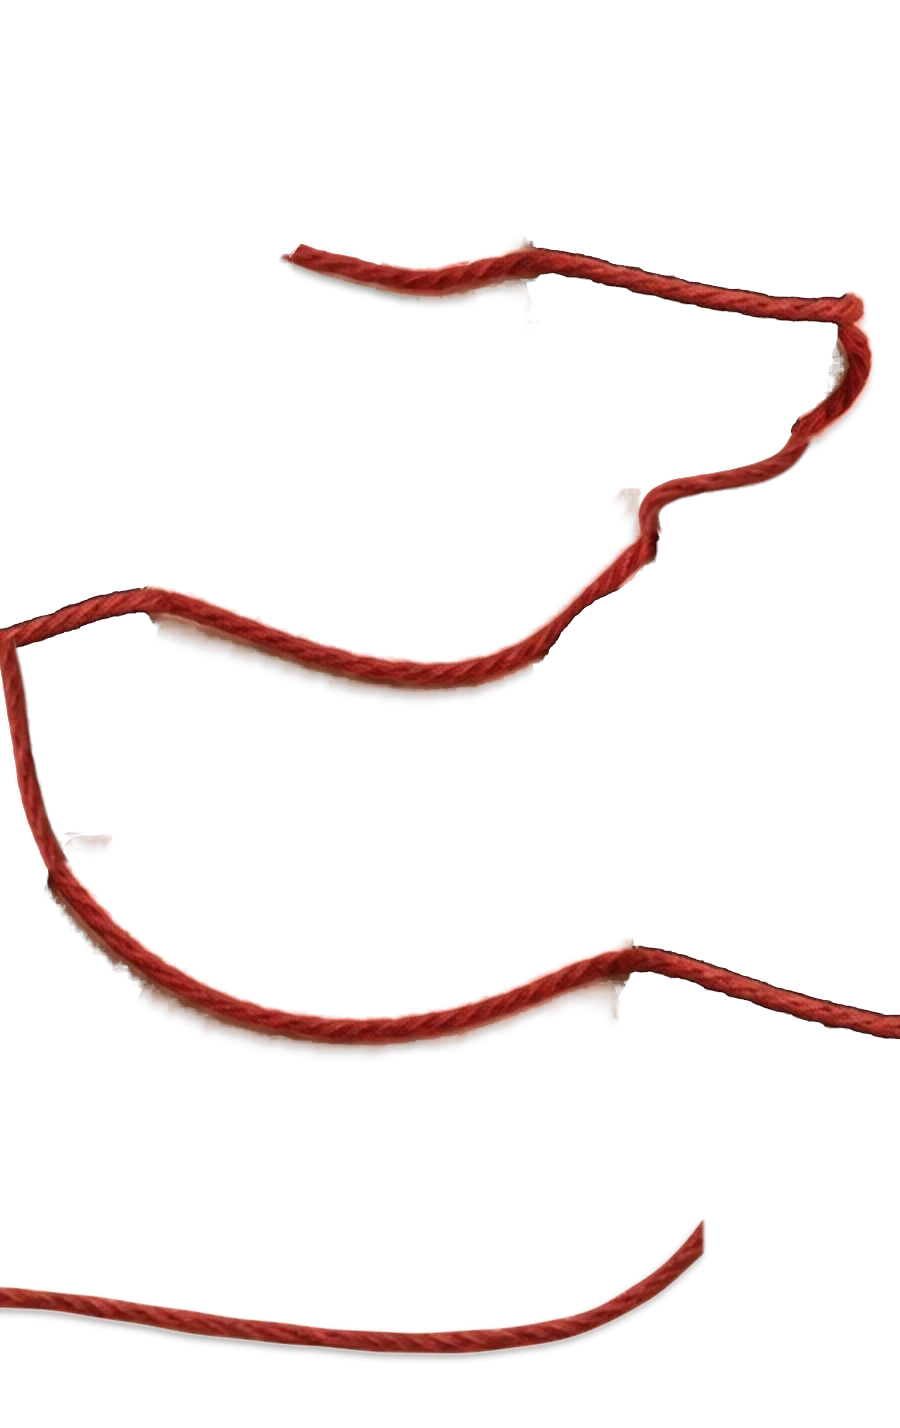
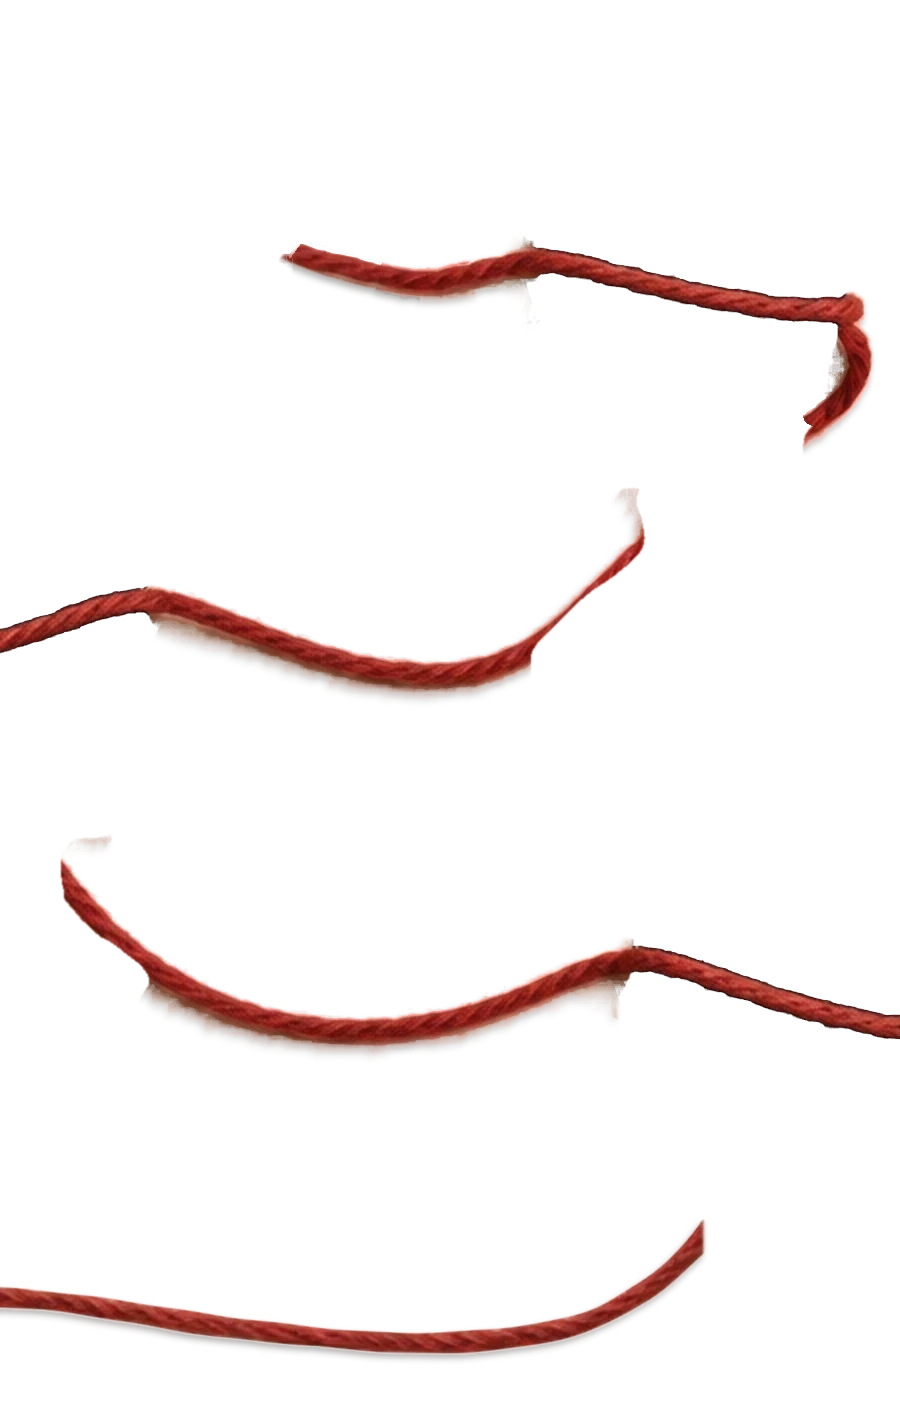
Matassa: il filo torna ad avvolgere i profili passando dietro; riesce da dietro il bordo del collo invece che dalla gola (#32)
Claude-Session: https://claude.ai/code/session_01K8S9kDcMmADtdHMs7poTsz

Changed region(s): [[0.5911, 0.2773, 0.9022, 0.4622], [0.0, 0.4314, 0.0933, 0.6471], [0.0933, 0.6471, 0.1867, 0.7087]]

diff --git a/assets/js/matassa.js b/assets/js/matassa.js
@@ -49,7 +49,7 @@
   function prepara() {
     var nome = verticale && verticale.matches ? 'stretto' : 'largo', T = TAGLI[nome];
     if (scena && scena.nome === nome) return;
-    Promise.all([carica(DIR + nome + '-base.webp?v=11'), carica(DIR + nome + '-filo.webp?v=11'), carica(DIR + nome + '-tempo.png?v=11'),
+    Promise.all([carica(DIR + nome + '-base.webp?v=12'), carica(DIR + nome + '-filo.webp?v=12'), carica(DIR + nome + '-tempo.png?v=12'),
                  carica(DIR + nome + '-palla.png?v=3')]).then(function (r) {
       var fp = pixel(r[1], T.W, T.H), tp = pixel(r[2], T.W, T.H);
       cBase.width = cFilo.width = T.W; cBase.height = cFilo.height = T.H;

diff --git a/index.html b/index.html
@@ -596,7 +596,7 @@
 </footer>
 
 <!-- prima la matassa: se c'e', site.js non disegna il filo colorato dell'apertura -->
-<script src="assets/js/matassa.js?v=20261004b" defer></script>
+<script src="assets/js/matassa.js?v=20261004c" defer></script>
 <script src="assets/js/site.js?v=20261003q" defer></script>
 <script src="assets/js/filo-laterale.js?v=4" defer></script>
 </body>
